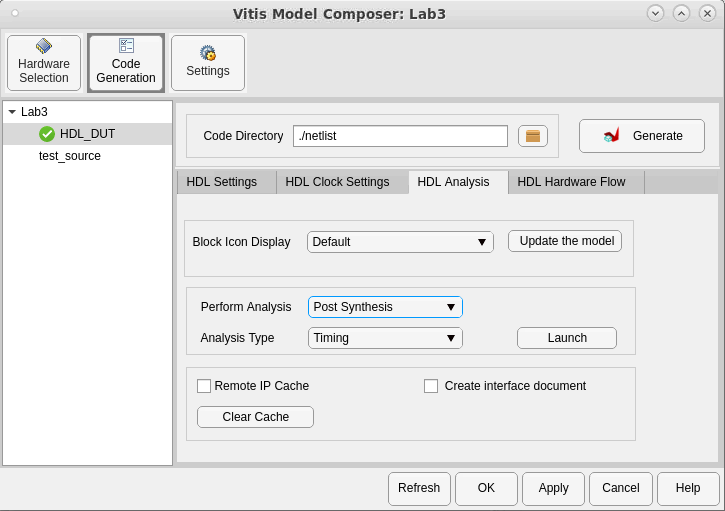
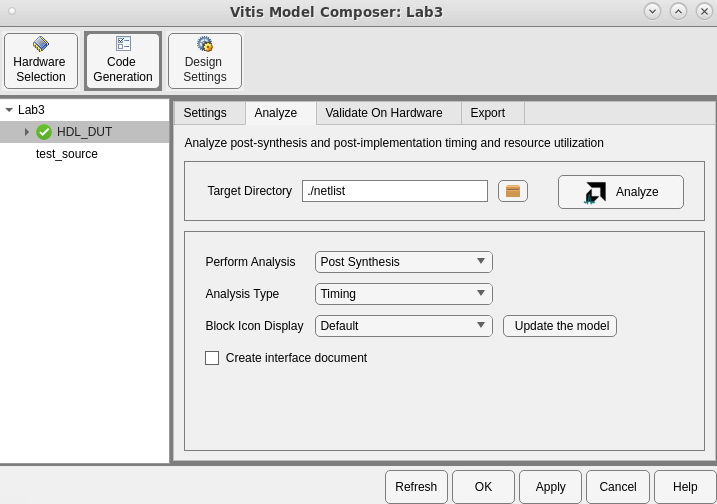
Update HDL Lab 3 to 2024.1

Changed region(s): [[0.0, 0.0, 1.0, 1.0], [0.583, 0.7143, 0.8285, 0.7738]]

diff --git a/Tutorials/HDL_Library/Lab3/README.html b/Tutorials/HDL_Library/Lab3/README.html
@@ -24,7 +24,7 @@ document.location=commandURI
 <button type="button" style="background-color:#d0d028; font-size: 20px;" onclick="myFunction()">Open Lab Directory</button>  
               
 </html>
-<p>In this lab, you learn how to verify the functionality of your designs by simulating in Simulink® to ensure that your Vitis Model Composer design is correct when you implement the design in your target Xilinx® device.</p>
+<p>In this lab, you learn how to verify the functionality of your designs by simulating in Simulink® to ensure that your Vitis Model Composer design is correct when you implement the design in your target AMD device.</p>
 <h3 id="objectives">Objectives</h3>
 <p>After completing this lab, you will be able to:</p>
 <ul>
@@ -41,108 +41,104 @@ document.location=commandURI
 <ol>
 <li><p>Invoke Vitis Model Composer.</p>
 <ul>
-<li>On Windows systems select <strong>Windows > Xilinx Design Tools > Vitis Model Composer 2022.2.</strong></li>
+<li>On Windows systems select <strong>Windows > AMD Design Tools > Vitis Model Composer 2024.1.</strong></li>
 <li>On Linux systems, type <code>model_composer</code> at the command prompt.</li></ul></li>
-<li><p>Navigate to the Lab3 folder: <samp>\HDL_Library\Lab3.</samp><br />
-<br><br>You can view the directory contents in the MATLAB® Current Folder browser, or type ls at the command line prompt.</p></li>
-<li><p>Open the Lab3 design using one of the following:</p>
-<ul>
-<li>At the MATLAB command prompt, type open <code>Lab3.slx</code></li>
-<li>Double-click Lab3.slx in the Current Folder browser.<br />
-<br><br> The Lab3 design opens, as shown in the following figure.<br />
-<br><br><img src="Images/Step1/Part1/Step3.png"><br />
-Note that this design differs from the previous labs in that all of the HDL blocks are placed inside a subsystem (<strong>HDL_DUT</strong>) while the Vitis Model Composer Hub block remains at the top level of the model. Going forward, this is a recommended approach for architecting your model using Vitis Model Composer.</li></ul></li>
-<li><p>From the Simulink Toolstrip, click the Run button to simulate the design.</p></li>
+<li><p>Navigate to the Lab3 folder: <code>\HDL_Library\Lab3.</code></p></li>
 </ol>
-<blockquote>
-<p> <strong>Note</strong>:  In order to see accurate results from Resource Analyzer Window it is recommended to specify a new target directory rather than use the current working directory.</p>
-</blockquote>
-<ol start="5">
+<p>You can view the directory contents in the MATLAB® Current Folder browser, or type ls at the command line prompt.</p>
+<ol start="3">
+<li>Open the Lab3 design using one of the following:<ul>
+<li>At the MATLAB command prompt, type <code>open Lab3.slx</code></li>
+<li>Double-click Lab3.slx in the Current Folder browser.</li></ul></li>
+</ol>
+<p>The Lab3 design opens, as shown in the following figure.</p>
+<p><img src="Images/Step1/Part1/Step3.png" alt="" /></p>
+<p>Note that this design differs from the previous labs in that all of the HDL blocks are placed inside a subsystem (<strong>HDL_DUT</strong>) while the Vitis Model Composer Hub block remains at the top level of the model. Going forward, this is a recommended approach for architecting your model using Vitis Model Composer.</p>
+<ol start="4">
+<li><p>From the Simulink Toolstrip, click the Run button to simulate the design.</p></li>
 <li><p>Double-click the <strong>Vitis Model Composer Hub</strong> block to open the Properties Editor.</p></li>
-<li><p>Select the <strong>HDL_DUT</strong> subsystem on the left, then the <strong>HDL Analysis</strong> tab.</p></li>
-<li><p>From the Perform Analysis menu, select <strong>Post Synthesis</strong> and from Analyzer type menu select <strong>Timing</strong> as shown in the following figure.<br />
-<br><br><img src="Images/Step1/Part1/Step7.png"></p></li>
-<li><p>In the Model Composer Hub dialog box, click Generate.<br />
-<br><br>When you generate, the following occurs:</p>
+<li><p>Select the <strong>HDL_DUT</strong> subsystem on the left, then the <strong>Analyze</strong> tab.</p></li>
+<li><p>From the Perform Analysis menu, select <strong>Post Synthesis</strong> and from Analyzer type menu select <strong>Timing</strong> as shown in the following figure.</p></li>
+</ol>
+<p><img src="Images/Step1/Part1/Step7.png" alt="" /></p>
+<ol start="8">
+<li>In the Model Composer Hub dialog box, click <strong>Analyze</strong>.</li>
+</ol>
+<p>When you generate, the following occurs:</p>
 <ul>
 <li>Vitis Model Composer generates the required files for the selected compilation target. For timing analysis Vitis Model Composer invokes Vivado in the background for the design project, and passes design timing constraints to Vivado.</li>
 <li>Depending on your selection for Perform Analysis (Post Synthesis or Post Implementation), the design runs in Vivado through synthesis or through implementation.</li>
 <li>After the Vivado tools run is completed, timing paths information is collected and saved in a specific file format from the Vivado timing database.</li>
-<li>Vitis Model Composer processes the timing information and displays a Timing Analyzer table with timing paths information as shown in the following figure.<br />
-<br><br><img src="Images/Step1/Part1/Step8.png"></li></ul></li>
-<li><p>In the timing analyzer table:</p>
-<ul>
-<li>Paths with lowest slack values display, with the worst slack showing at the top and increasing toward the bottom.</li>
-<li>Paths with timing violations have a negative slack and display in red.</li></ul></li>
-<li><p>Cross probe from the Timing Analyzer table to the Simulink model by clicking any path in the Timing Analyzer table, which highlights the corresponding Vitis Model Composer HDL blocks in the model. This allows you to troubleshoot timing violations by analyzing the path on which they occur.</p></li>
-<li><p>When you cross probe, you see the corresponding path as shown in the following figure.</p></li>
-<li><p>Blocks with timing violations are highlighted in red.<br />
-<br><br><img src="Images/Step1/Part1/Step12.png"></p></li>
-<li><p>Double-click the second path in the Timing Analyzer table and cross-probe, the corresponding highlighted path in green which indicates no timing violation.<br />
-<br><br><img src="Images/Step1/Part1/Step13-1.png"><br />
-<br><br> If you close the Timing Analyzer sometime later you might want to relaunch the Timing Analyzer table using the existing timing analyzer results for the model. A Launch button is provided under the HDL Analysis tab of the Model Composer Hub dialog box. This will only work if you already ran timing analysis on the Simulink model.<br />
-<br><br><img src="Images/Step1/Part1/Step13-2.png"></p></li>
+<li>Vitis Model Composer processes the timing information and displays a Timing Analyzer table with timing paths information as shown in the following figure.</li>
+</ul>
+<p><img src="Images/Step1/Part1/Step8.png" alt="" /></p>
+<p>In the timing analyzer table, paths with lowest slack values display, with the worst slack showing at the top and increasing toward the bottom. Paths with timing violations have a negative slack and display in red.</p>
+<ol start="9">
+<li>Cross probe from the Timing Analyzer table to the Simulink model by clicking any path in the Timing Analyzer table, which highlights the corresponding Vitis Model Composer HDL blocks in the model. This allows you to troubleshoot timing violations by analyzing the path on which they occur.</li>
 </ol>
-<blockquote>
-<p> <strong>Note</strong>: If you relaunch the Timing Analyzer window, make sure that the Analysis Type field is set to Timing. The table that opens will display the results stored in the Code Directory specified in the Model Composer Hub dialog box, regardless of the option selected for Perform Analysis (Post Synthesis or Post Implementation).</p>
-</blockquote>
+<p>When you cross probe, you see the corresponding path as shown in the following figure. Blocks with timing violations are highlighted in red.</p>
+<p><img src="Images/Step1/Part1/Step12.png" alt="" /></p>
+<ol start="10">
+<li>Double-click the second path in the Timing Analyzer table and cross-probe, the corresponding highlighted path in green which indicates no timing violation.</li>
+</ol>
+<p><img src="Images/Step1/Part1/Step13-1.png" alt="" /></p>
+<p>If you close the Timing Analyzer sometime later you might want to relaunch the Timing Analyzer table using the existing timing analyzer results for the model. To do this, simply click <strong>Analyze</strong> in the Model Composer Hub block again. The table that opens will display the results stored in the Target Directory specified in the Model Composer Hub dialog box, regardless of the option selected for Perform Analysis (Post Synthesis or Post Implementation).</p>
 <h3 id="troubleshooting-timing-violations">Troubleshooting Timing Violations</h3>
 <p>Inserting some registers in the combinational path might give better timing results and might help overcome timing violations if any. This can be done by changing latency of the combinational blocks as explained in the following.</p>
 <ol>
-<li><p>Click the violated path from the Timing Analyzer window which opens the violated path as shown in the following figure.<br />
-<br><br><img src="Images/Step1/Part2/Step1.png"></p></li>
-<li><p>Double-click the Mult block to open the Multiplier block parameters window as shown in the following figure.<br />
-<br><br><img src="Images/Step1/Part2/Step2.png"></p></li>
-<li><p>Under Basic tab, change the latency from 1 to 2 and click <strong>OK</strong>.</p></li>
-<li><p>Double-click the <strong>Model Composer Hub</strong> block, ensure that the Analyzer Type is Timing and click <strong>Generate</strong>.</p></li>
-<li><p>After the generation completes, it opens the timing Analyzer table as shown in the following figure. Observe the status pass at the top-right corner. It indicates there are no timing violated paths in the design.<br />
-<br><br><img src="Images/Step1/Part2/Step5.png"></p></li>
+<li>Click the violated path from the Timing Analyzer window which opens the violated path as shown in the following figure.</li>
 </ol>
+<p><img src="Images/Step1/Part2/Step1.png" alt="" /></p>
+<ol start="2">
+<li>Double-click the Mult block to open the Multiplier block parameters window as shown in the following figure.</li>
+</ol>
+<p><img src="Images/Step1/Part2/Step2.png" alt="" /></p>
+<ol start="3">
+<li><p>Under Basic tab, change the latency from 1 to 2 and click <strong>OK</strong>.</p></li>
+<li><p>Double-click the <strong>Model Composer Hub</strong> block, ensure that the Analysis Type is Timing and click <strong>Analyze</strong>.</p></li>
+</ol>
+<p>After the generation completes, it opens the timing Analyzer table as shown in the following figure. Observe the status pass at the top-right corner. It indicates there are no timing violated paths in the design.</p>
+<p><img src="Images/Step1/Part2/Step5.png" alt="" /></p>
 <blockquote>
-<p> <strong>Note</strong>: <br><br />
-a. For quicker timing analysis iterations, post-synthesis analysis is preferred over post-implementation analysis. <br><br />
+<p> <strong>Note</strong>: <br />
+a. For quicker timing analysis iterations, post-synthesis analysis is preferred over post-implementation analysis. <br />
 b. Changing the latency of the block might increase the number of resources which can be seen using Step 2: Resource Analysis in Vitis Model Composer.</p>
 </blockquote>
 <h2 id="step-2-resource-analysis-in-vitis-model-composer">Step 2: Resource Analysis in Vitis Model Composer</h2>
-<p>In this step we use same design, <samp>Lab3.slx</samp>, used for Step 1 but we are going to perform Resource Analysis.</p>
+<p>In this step we use same design, <code>Lab3.slx</code>, used for Step 1 but we are going to perform Resource Analysis.</p>
 <blockquote>
-<p>⭐ <strong>Tip</strong>: Resource Analysis can be performed whenever you generate any of the following compilation types: <br></p>
+<p>⭐ <strong>Tip</strong>: Resource Analysis can be performed whenever you generate any of the following compilation types: </p>
 <ul>
-<li>IP catalog <br></li>
-<li>Hardware Co-Simulation <br></li>
-<li>Synthesized Checkpoint <br></li>
-<li>HDL Netlist <br></li>
+<li>IP catalog </li>
+<li>Hardware Co-Simulation </li>
+<li>Synthesized Checkpoint </li>
+<li>HDL Netlist </li>
 </ul>
 </blockquote>
 <ol>
-<li>Double-click the <strong>Model Composer Hub</strong> block in the Simulink model. On the HDL Settings tab, ensure that one of the Compilation Types listed above is selected.</li>
+<li><p>Double-click the <strong>Model Composer Hub</strong> block in the Simulink model. On the HDL Settings tab, ensure that one of the Compilation Types listed above is selected.</p></li>
+<li><p>In the Analyze tab, set the Perform Analysis field to <strong>Post Synthesis</strong> and Analysis Type type field to <strong>Resource</strong>.</p></li>
 </ol>
+<p><img src="Images/Step2/Step2.png" alt="" /></p>
 <blockquote>
 <p> <strong>Note</strong>: In order to see accurate results from Resource Analyzer Window it is recommended to specify a new target directory rather than use the current working directory.</p>
 </blockquote>
-<ol start="2">
-<li><p>In the HDL Analysis tab, set the Perform Analysis field to <strong>Post Synthesis</strong> and Analysis Type type field to <strong>Resource</strong>.<br />
-<br><br><img src="Images/Step2/Step2.png"></p></li>
-<li><p>In the Model Composer Hub dialog box, click <strong>Generate</strong><br />
-<br><br>Model Composer processes the resource utilization data and displays a Resource Analyzer window with resource utilization information.<br />
-<br><br><img src="Images/Step2/Step3.png"><br />
-<br><br>Each column heading (for example, BRAMs, DSPs, or LUTs) in the window shows the total number of each type of resources available in the Xilinx device for which you are targeting your design. The rest of the window displays a hierarchical listing of each subsystem and block in the design, with the count of these resource types.</p></li>
-<li><p>You can cross probe from the Resource Analyzer window to the Simulink model by clicking a block or subsystem name in the Resource Analyzer window, which highlights the corresponding Vitis Model Composer HDL block or subsystem in the model.<br />
-<br><br>Cross probing is useful to identify blocks and subsystems that are implemented using a particular type of resource.</p></li>
-<li><p>The block you have selected in the window will be highlighted yellow and outlined in red.</p></li>
+<ol start="3">
+<li>In the Model Composer Hub dialog box, click <strong>Analyze</strong>.</li>
 </ol>
-<!-- <br><br><img src="Images/Step2/Step5.png"> -->
-<ol start="6">
-<li>If the block or subsystem you have selected in the window is within an upper-level subsystem, then the parent subsystem is highlighted in red in addition to the underlying block as shown in the following figure.<br />
-<br><br><img src="Images/Step2/Step6.png"></li>
-</ol>
+<p>Model Composer processes the resource utilization data and displays a Resource Analyzer window with resource utilization information.</p>
+<p><img src="Images/Step2/Step3.png" alt="" /></p>
+<p>Each column heading (for example, BRAMs, DSPs, or LUTs) in the window shows the total number of each type of resources available in the AMD device for which you are targeting your design. The rest of the window displays a hierarchical listing of each subsystem and block in the design, with the count of these resource types.</p>
+<p>You can cross probe from the Resource Analyzer window to the Simulink model by clicking a block or subsystem name in the Resource Analyzer window, which highlights the corresponding Vitis Model Composer HDL block or subsystem in the model.</p>
+<p>Cross probing is useful to identify blocks and subsystems that are implemented using a particular type of resource. The block you have selected in the window will be highlighted yellow and outlined in red. If the block or subsystem you have selected in the window is within an upper-level subsystem, then the parent subsystem is highlighted in red in addition to the underlying block as shown in the following figure.</p>
+<p><img src="Images/Step2/Step6.png" alt="" /></p>
 <blockquote>
-<p>❗❗ <strong>Important</strong>: If the Resource Analyzer window or the Timing Analyzer window opens and no information is displayed in the window (table cells are empty), double-click the Model Composer Hub block and set the Code Directory to a new directory, that is, a directory that has not been used before. Then run the analysis again.</p>
+<p>❗❗ <strong>Important</strong>: If the Resource Analyzer window or the Timing Analyzer window opens and no information is displayed in the window (table cells are empty), double-click the Model Composer Hub block and set the Target Directory to a new directory, that is, a directory that has not been used before. Then run the analysis again.</p>
 </blockquote>
 <h2 id="summary">Summary</h2>
 <p>In this lab you learned how to use timing and resource analysis inside Model Composer which, in turn, invokes Vivado synthesis to collect the information for the analysis. You also learned how to identify timing violated paths and to troubleshoot them for simple designs.</p>
 <hr />
-<p>Copyright 2022 Xilinx</p>
+<p>Copyright 2024 Advanced Micro Devices, Inc.</p>
 <p>Licensed under the Apache License, Version 2.0 (the "License");<br />
 you may not use this file except in compliance with the License.<br />
 You may obtain a copy of the License at</p>

diff --git a/Tutorials/HDL_Library/Lab3/README.md b/Tutorials/HDL_Library/Lab3/README.md
@@ -1,131 +1,140 @@
 # Lab 3: Timing and Resource Analysis
 
-In this lab, you learn how to verify the functionality of your designs by simulating in Simulink® to ensure that your Vitis Model Composer design is correct when you implement the design in your target Xilinx® device.
+In this lab, you learn how to verify the functionality of your designs by simulating in Simulink® to ensure that your Vitis Model Composer design is correct when you implement the design in your target AMD device.
 
 ### Objectives
+
 After completing this lab, you will be able to:
- * Identify timing issues in the HDL files generated by Vitis Model Composer and discover the source of the timing violations in your design.
- * Perform resource analysis and access the existing resource analysis results, along with recommendations to optimize.
+
+* Identify timing issues in the HDL files generated by Vitis Model Composer and discover the source of the timing violations in your design.
+* Perform resource analysis and access the existing resource analysis results, along with recommendations to optimize.
 
 ### Procedure 
+
 This lab has two primary parts:
- * In Step 1 you will learn how to do timing analysis in Vitis Model Composer.
- * In Step 2 you will learn how to perform resource analysis in Vitis Model Composer.
+
+* In Step 1 you will learn how to do timing analysis in Vitis Model Composer.
+* In Step 2 you will learn how to perform resource analysis in Vitis Model Composer.
 
 ## Step 1: Timing Analysis in Vitis Model Composer
 
 1. Invoke Vitis Model Composer.
-    - On Windows systems select **Windows > Xilinx Design Tools > Vitis Model Composer 2022.2.**
+    - On Windows systems select **Windows > AMD Design Tools > Vitis Model Composer 2024.1.**
     - On Linux systems, type `model_composer` at the command prompt.
 
-2. Navigate to the Lab3 folder: <samp>\HDL_Library\Lab3.</samp>
-<br><br>You can view the directory contents in the MATLAB® Current Folder browser, or type ls at the command line prompt.
+2. Navigate to the Lab3 folder: `\HDL_Library\Lab3.`
+
+You can view the directory contents in the MATLAB® Current Folder browser, or type ls at the command line prompt.
 
 3. Open the Lab3 design using one of the following:
-    - At the MATLAB command prompt, type open `Lab3.slx`
+    - At the MATLAB command prompt, type `open Lab3.slx`
     - Double-click Lab3.slx in the Current Folder browser.
-<br><br> The Lab3 design opens, as shown in the following figure.
-<br><br><img src="Images/Step1/Part1/Step3.png">
+
+The Lab3 design opens, as shown in the following figure.
+
+![](Images/Step1/Part1/Step3.png)
+
 Note that this design differs from the previous labs in that all of the HDL blocks are placed inside a subsystem (**HDL_DUT**) while the Vitis Model Composer Hub block remains at the top level of the model. Going forward, this is a recommended approach for architecting your model using Vitis Model Composer.
 
 4. From the Simulink Toolstrip, click the Run button to simulate the design.
-> 📝 **Note**:  In order to see accurate results from Resource Analyzer Window it is recommended to specify a new target directory rather than use the current working directory.
 
 5. Double-click the **Vitis Model Composer Hub** block to open the Properties Editor.
 
-6. Select the **HDL_DUT** subsystem on the left, then the **HDL Analysis** tab.
+6. Select the **HDL_DUT** subsystem on the left, then the **Analyze** tab.
 
 7. From the Perform Analysis menu, select **Post Synthesis** and from Analyzer type menu select **Timing** as shown in the following figure.
-<br><br><img src="Images/Step1/Part1/Step7.png">
 
-8. In the Model Composer Hub dialog box, click Generate.
-<br><br>When you generate, the following occurs:
-    - Vitis Model Composer generates the required files for the selected compilation target. For timing analysis Vitis Model Composer invokes Vivado in the background for the design project, and passes design timing constraints to Vivado.
-    - Depending on your selection for Perform Analysis (Post Synthesis or Post Implementation), the design runs in Vivado through synthesis or through implementation.
-    - After the Vivado tools run is completed, timing paths information is collected and saved in a specific file format from the Vivado timing database.
-    - Vitis Model Composer processes the timing information and displays a Timing Analyzer table with timing paths information as shown in the following figure.
-<br><br><img src="Images/Step1/Part1/Step8.png">
+![](Images/Step1/Part1/Step7.png)
 
-9. In the timing analyzer table:
-    - Paths with lowest slack values display, with the worst slack showing at the top and increasing toward the bottom.
-    - Paths with timing violations have a negative slack and display in red.
+8. In the Model Composer Hub dialog box, click **Analyze**.
 
-10. Cross probe from the Timing Analyzer table to the Simulink model by clicking any path in the Timing Analyzer table, which highlights the corresponding Vitis Model Composer HDL blocks in the model. This allows you to troubleshoot timing violations by analyzing the path on which they occur.
+When you generate, the following occurs:
 
-11. When you cross probe, you see the corresponding path as shown in the following figure.
+* Vitis Model Composer generates the required files for the selected compilation target. For timing analysis Vitis Model Composer invokes Vivado in the background for the design project, and passes design timing constraints to Vivado.
+* Depending on your selection for Perform Analysis (Post Synthesis or Post Implementation), the design runs in Vivado through synthesis or through implementation.
+* After the Vivado tools run is completed, timing paths information is collected and saved in a specific file format from the Vivado timing database.
+* Vitis Model Composer processes the timing information and displays a Timing Analyzer table with timing paths information as shown in the following figure.
 
-12. Blocks with timing violations are highlighted in red.
-<br><br><img src="Images/Step1/Part1/Step12.png">
+![](Images/Step1/Part1/Step8.png)
 
-13. Double-click the second path in the Timing Analyzer table and cross-probe, the corresponding highlighted path in green which indicates no timing violation.
-<br><br><img src="Images/Step1/Part1/Step13-1.png">
-<br><br> If you close the Timing Analyzer sometime later you might want to relaunch the Timing Analyzer table using the existing timing analyzer results for the model. A Launch button is provided under the HDL Analysis tab of the Model Composer Hub dialog box. This will only work if you already ran timing analysis on the Simulink model.
-<br><br><img src="Images/Step1/Part1/Step13-2.png">
+In the timing analyzer table, paths with lowest slack values display, with the worst slack showing at the top and increasing toward the bottom. Paths with timing violations have a negative slack and display in red.
 
-> 📝 **Note**: If you relaunch the Timing Analyzer window, make sure that the Analysis Type field is set to Timing. The table that opens will display the results stored in the Code Directory specified in the Model Composer Hub dialog box, regardless of the option selected for Perform Analysis (Post Synthesis or Post Implementation).
+9. Cross probe from the Timing Analyzer table to the Simulink model by clicking any path in the Timing Analyzer table, which highlights the corresponding Vitis Model Composer HDL blocks in the model. This allows you to troubleshoot timing violations by analyzing the path on which they occur.
+
+When you cross probe, you see the corresponding path as shown in the following figure. Blocks with timing violations are highlighted in red.
+
+![](Images/Step1/Part1/Step12.png)
+
+10. Double-click the second path in the Timing Analyzer table and cross-probe, the corresponding highlighted path in green which indicates no timing violation.
+
+![](Images/Step1/Part1/Step13-1.png)
+
+If you close the Timing Analyzer sometime later you might want to relaunch the Timing Analyzer table using the existing timing analyzer results for the model. To do this, simply click **Analyze** in the Model Composer Hub block again. The table that opens will display the results stored in the Target Directory specified in the Model Composer Hub dialog box, regardless of the option selected for Perform Analysis (Post Synthesis or Post Implementation).
 
 ### Troubleshooting Timing Violations
 
 Inserting some registers in the combinational path might give better timing results and might help overcome timing violations if any. This can be done by changing latency of the combinational blocks as explained in the following.
 
 1. Click the violated path from the Timing Analyzer window which opens the violated path as shown in the following figure.
-<br><br><img src="Images/Step1/Part2/Step1.png">
+
+![](Images/Step1/Part2/Step1.png)
 
 2. Double-click the Mult block to open the Multiplier block parameters window as shown in the following figure.
-<br><br><img src="Images/Step1/Part2/Step2.png">
+
+![](Images/Step1/Part2/Step2.png)
 
 3. Under Basic tab, change the latency from 1 to 2 and click **OK**.
 
-4. Double-click the **Model Composer Hub** block, ensure that the Analyzer Type is Timing and click **Generate**.
+4. Double-click the **Model Composer Hub** block, ensure that the Analysis Type is Timing and click **Analyze**.
 
-5. After the generation completes, it opens the timing Analyzer table as shown in the following figure. Observe the status pass at the top-right corner. It indicates there are no timing violated paths in the design.
-<br><br><img src="Images/Step1/Part2/Step5.png">
+After the generation completes, it opens the timing Analyzer table as shown in the following figure. Observe the status pass at the top-right corner. It indicates there are no timing violated paths in the design.
 
-> 📝 **Note**: <br>
-> a. For quicker timing analysis iterations, post-synthesis analysis is preferred over post-implementation analysis. <br>
+![](Images/Step1/Part2/Step5.png)
+
+> 📝 **Note**: 
+> a. For quicker timing analysis iterations, post-synthesis analysis is preferred over post-implementation analysis. 
 > b. Changing the latency of the block might increase the number of resources which can be seen using Step 2: Resource Analysis in Vitis Model Composer.
-
 
 ## Step 2: Resource Analysis in Vitis Model Composer
 
-In this step we use same design, <samp>Lab3.slx</samp>, used for Step 1 but we are going to perform Resource Analysis.
+In this step we use same design, `Lab3.slx`, used for Step 1 but we are going to perform Resource Analysis.
 
-> ⭐ **Tip**: Resource Analysis can be performed whenever you generate any of the following compilation types: <br>
-> * IP catalog <br>
-> * Hardware Co-Simulation <br>
-> * Synthesized Checkpoint <br>
-> * HDL Netlist <br>
+> ⭐ **Tip**: Resource Analysis can be performed whenever you generate any of the following compilation types: 
+> * IP catalog 
+> * Hardware Co-Simulation 
+> * Synthesized Checkpoint 
+> * HDL Netlist 
 
 1. Double-click the **Model Composer Hub** block in the Simulink model. On the HDL Settings tab, ensure that one of the Compilation Types listed above is selected.
 
+2. In the Analyze tab, set the Perform Analysis field to **Post Synthesis** and Analysis Type type field to **Resource**.
+
+![](Images/Step2/Step2.png)
+
 > 📝 **Note**: In order to see accurate results from Resource Analyzer Window it is recommended to specify a new target directory rather than use the current working directory.
 
-2. In the HDL Analysis tab, set the Perform Analysis field to **Post Synthesis** and Analysis Type type field to **Resource**.
-<br><br><img src="Images/Step2/Step2.png">
+3. In the Model Composer Hub dialog box, click **Analyze**.
 
-3. In the Model Composer Hub dialog box, click **Generate**
-<br><br>Model Composer processes the resource utilization data and displays a Resource Analyzer window with resource utilization information.
-<br><br><img src="Images/Step2/Step3.png">
-<br><br>Each column heading (for example, BRAMs, DSPs, or LUTs) in the window shows the total number of each type of resources available in the Xilinx device for which you are targeting your design. The rest of the window displays a hierarchical listing of each subsystem and block in the design, with the count of these resource types.
+Model Composer processes the resource utilization data and displays a Resource Analyzer window with resource utilization information.
 
-4. You can cross probe from the Resource Analyzer window to the Simulink model by clicking a block or subsystem name in the Resource Analyzer window, which highlights the corresponding Vitis Model Composer HDL block or subsystem in the model.
-<br><br>Cross probing is useful to identify blocks and subsystems that are implemented using a particular type of resource.
+![](Images/Step2/Step3.png)
 
-5. The block you have selected in the window will be highlighted yellow and outlined in red.
-<!-- <br><br><img src="Images/Step2/Step5.png"> -->
+Each column heading (for example, BRAMs, DSPs, or LUTs) in the window shows the total number of each type of resources available in the AMD device for which you are targeting your design. The rest of the window displays a hierarchical listing of each subsystem and block in the design, with the count of these resource types.
 
-6. If the block or subsystem you have selected in the window is within an upper-level subsystem, then the parent subsystem is highlighted in red in addition to the underlying block as shown in the following figure.
-<br><br><img src="Images/Step2/Step6.png">
+You can cross probe from the Resource Analyzer window to the Simulink model by clicking a block or subsystem name in the Resource Analyzer window, which highlights the corresponding Vitis Model Composer HDL block or subsystem in the model.
 
-> ❗❗ **Important**: If the Resource Analyzer window or the Timing Analyzer window opens and no information is displayed in the window (table cells are empty), double-click the Model Composer Hub block and set the Code Directory to a new directory, that is, a directory that has not been used before. Then run the analysis again.
+Cross probing is useful to identify blocks and subsystems that are implemented using a particular type of resource. The block you have selected in the window will be highlighted yellow and outlined in red. If the block or subsystem you have selected in the window is within an upper-level subsystem, then the parent subsystem is highlighted in red in addition to the underlying block as shown in the following figure.
 
+![](Images/Step2/Step6.png)
+
+> ❗❗ **Important**: If the Resource Analyzer window or the Timing Analyzer window opens and no information is displayed in the window (table cells are empty), double-click the Model Composer Hub block and set the Target Directory to a new directory, that is, a directory that has not been used before. Then run the analysis again.
 
 ## Summary
 
 In this lab you learned how to use timing and resource analysis inside Model Composer which, in turn, invokes Vivado synthesis to collect the information for the analysis. You also learned how to identify timing violated paths and to troubleshoot them for simple designs.
 
 --------------
-Copyright 2022 Xilinx
+Copyright 2024 Advanced Micro Devices, Inc.
 
 Licensed under the Apache License, Version 2.0 (the "License");
 you may not use this file except in compliance with the License.
